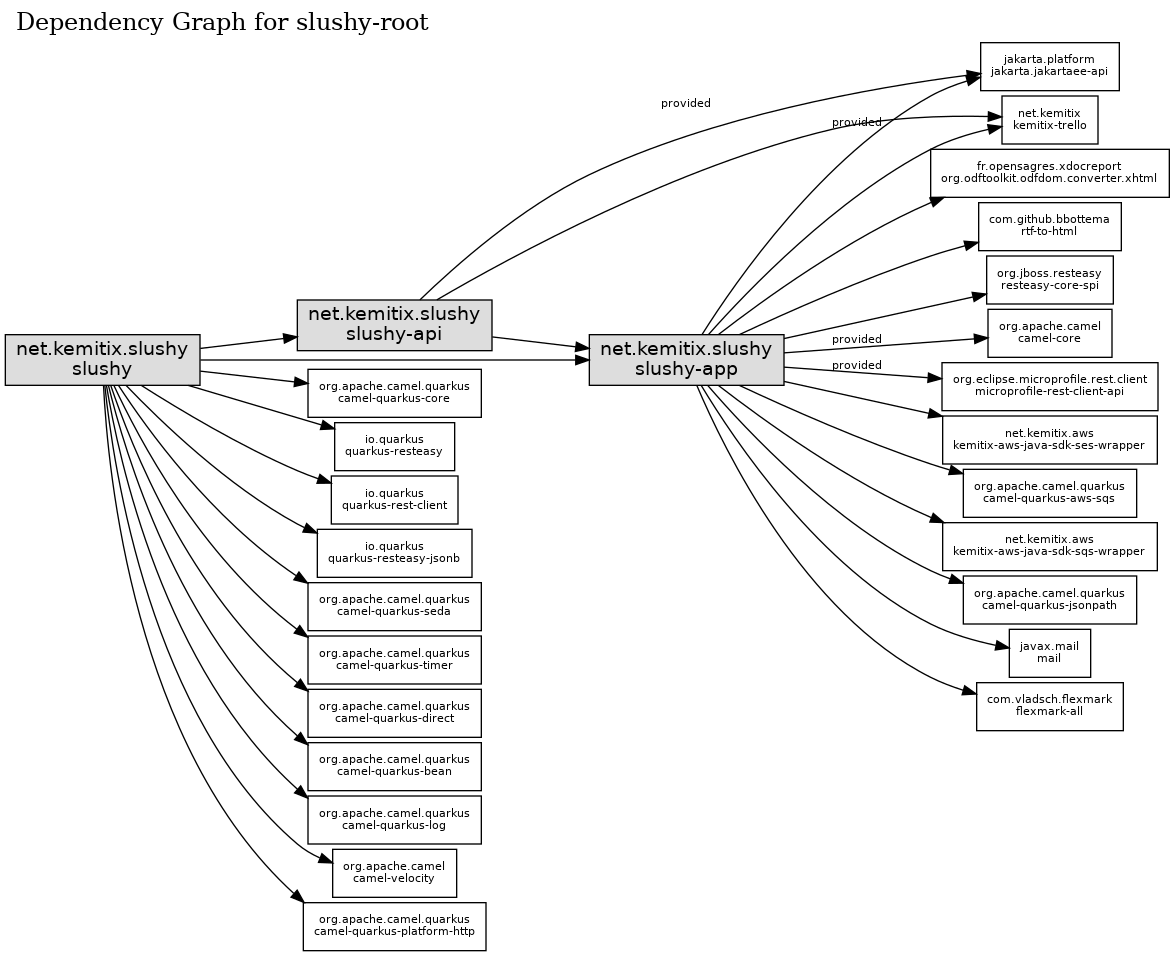
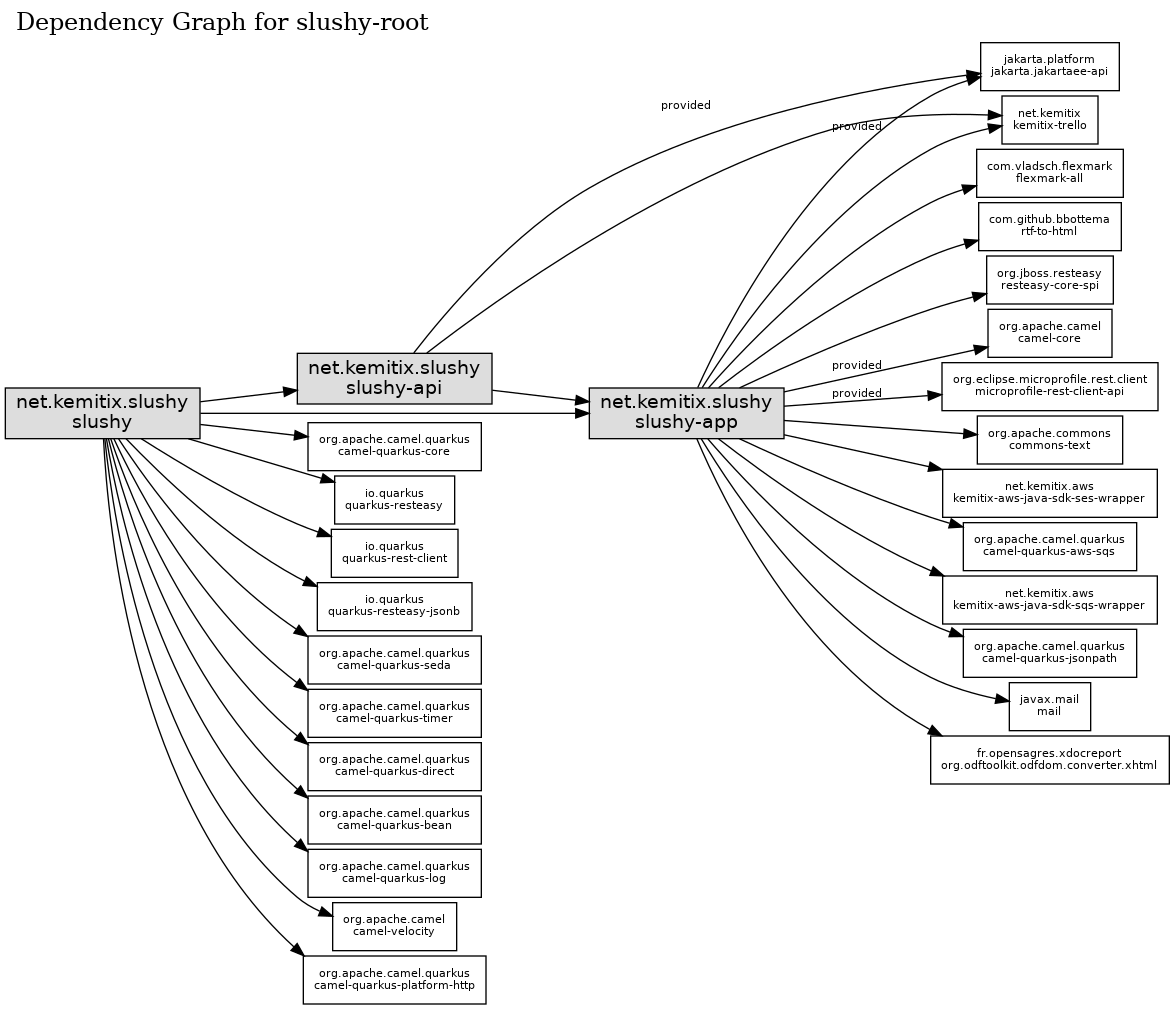
Fix Unicode conversion in RTF to Markdown/HTML converter (#184)
* reader: prevent double trigger of router

Moving a card from Slush to Send To Reader triggered the Reader route twice, causing two threads to be triggered in parallel scanning the Send To Reading list.

* add commons-text dependency

* Use Rtf2Html interface

* Rewrite RtfCleaner to handle unicode better

* Version set to 2.0.1

diff --git a/slushy-app/src/main/java/net/kemitix/slushy/app/fileconversion/RtfToHtmlAttachmentConverter.java b/slushy-app/src/main/java/net/kemitix/slushy/app/fileconversion/RtfToHtmlAttachmentConverter.java
@@ -3,7 +3,6 @@ package net.kemitix.slushy.app.fileconversion;
 import lombok.extern.java.Log;
 import net.kemitix.trello.Attachment;
 import net.kemitix.trello.LocalAttachment;
-import org.bbottema.rtftohtml.RTF2HTMLConverter;
 
 import javax.enterprise.context.ApplicationScoped;
 import javax.inject.Inject;
@@ -19,9 +18,17 @@ import java.util.stream.Stream;
 public class RtfToHtmlAttachmentConverter
         implements AttachmentConverter {
 
-    @Inject RTF2HTMLConverter converter;
-    @Inject HtmlCleaner htmlCleaner;
-    @Inject RtfCleaner rtfCleaner;
+    private final Rtf2Html converter;
+    private final RtfCleaner rtfCleaner;
+
+    @Inject
+    public RtfToHtmlAttachmentConverter(
+            Rtf2Html converter,
+            RtfCleaner rtfCleaner
+    ) {
+        this.converter = converter;
+        this.rtfCleaner = rtfCleaner;
+    }
 
     @Override
     public boolean canHandle(Attachment attachment) {
@@ -38,9 +45,7 @@ public class RtfToHtmlAttachmentConverter
     ) {
         try {
             String rtfString = Files.readString(sourceFile.toPath());
-            String html = converter.rtf2html(
-                    rtfCleaner.clean(
-                            htmlCleaner.clean(rtfString)));
+            String html = doConvert(rtfString);
             Files.writeString(targetFile.toPath(), html);
             if (targetFile.exists()) {
                 return Optional.of(
@@ -54,6 +59,9 @@ public class RtfToHtmlAttachmentConverter
         }
     }
 
+    public String doConvert(String rtfString) {
+        return converter.convert(rtfCleaner.clean(rtfString));
+    }
 
     @Override
     public Stream<String> canConvertFrom() {

diff --git a/slushy-app/src/main/java/net/kemitix/slushy/app/fileconversion/RtfCleaner.java b/slushy-app/src/main/java/net/kemitix/slushy/app/fileconversion/RtfCleaner.java
@@ -1,22 +1,22 @@
 package net.kemitix.slushy.app.fileconversion;
 
+import org.apache.commons.text.StringEscapeUtils;
+
 import javax.enterprise.context.ApplicationScoped;
-import java.util.Arrays;
-import java.util.concurrent.atomic.AtomicReference;
+import java.util.regex.Pattern;
 
 @ApplicationScoped
 public class RtfCleaner {
 
-    public String clean(String rtfString) {
-        var text = new AtomicReference<>(rtfString);
-        Arrays.stream(new String[][]{
-                {"[{][\\\\]u8220[\\\\]'93[}]", "&ldquo;"},
-                {"[{][\\\\]u8221[\\\\]'94[}]", "&rdquo;"},
-                {"[{][\\\\]u8217[\\\\]'92[}]", "&apos;"},
-        }).forEach(e ->
-                text.updateAndGet(x ->
-                        x.replaceAll(e[0], e[1])));
-        return text.get();
+    private static final Pattern pattern = Pattern.compile("\\\\u(\\d{4})\\\\'\\d{2}");
+
+    public String clean(String rtfText) {
+        return pattern.matcher(rtfText)
+                .replaceAll(match -> {
+                    int codePoint = Integer.parseInt(match.group(1));
+                    String unicodeString = new String(Character.toChars(codePoint));
+                    return StringEscapeUtils.escapeHtml4(unicodeString);
+                });
     }
 
 }

diff --git a/slushy-app/src/test/java/net/kemitix/slushy/app/fileconversion/RtfCleanerTest.java b/slushy-app/src/test/java/net/kemitix/slushy/app/fileconversion/RtfCleanerTest.java
@@ -1,0 +1,21 @@
+package net.kemitix.slushy.app.fileconversion;
+
+import org.assertj.core.api.WithAssertions;
+import org.junit.jupiter.api.DisplayName;
+import org.junit.jupiter.api.Test;
+
+public class RtfCleanerTest
+    implements WithAssertions {
+
+    @Test
+    @DisplayName("Can convert RTF Unicode into an HTML entity")
+    public void canConvertRtfUnicodeToHtmlEntity() {
+        //given
+        var rtf = "\\u8217\\'92";// &apos; or &rsquo;
+        RtfCleaner rtfCleaner = new RtfCleaner();
+        //when
+        String out = rtfCleaner.clean(rtf);
+        //then
+        assertThat(out).isEqualTo("&rsquo;");
+    }
+}

diff --git a/slushy-app/src/main/java/net/kemitix/slushy/app/reader/ReaderRoute.java b/slushy-app/src/main/java/net/kemitix/slushy/app/reader/ReaderRoute.java
@@ -10,6 +10,7 @@ import javax.inject.Inject;
 public class ReaderRoute
         extends RouteBuilder {
 
+    public static final int TWENTY_SECONDS = 20000;
     @Inject LoadList loadList;
     @Inject ReaderConfig readerConfig;
 
@@ -17,6 +18,9 @@ public class ReaderRoute
     public void configure() throws Exception {
         from("direct:Slushy.Reader")
                 .routeId("Slushy.Reader")
+
+                .throttle(1).timePeriodMillis(TWENTY_SECONDS)
+
                 .setHeader("ListName").constant(readerConfig.getSourceList())
                 .setBody().method(loadList)
                 .split(body())

diff --git a/slushy-app/src/main/java/net/kemitix/slushy/app/fileconversion/RTFConverterProducer.java b/slushy-app/src/main/java/net/kemitix/slushy/app/fileconversion/RTFConverterProducer.java
@@ -11,8 +11,9 @@ public class RTFConverterProducer {
 
     @Produces
     @ApplicationScoped
-    RTF2HTMLConverter converter() {
-        return RTF2HTMLConverterJEditorPane.INSTANCE;
+    Rtf2Html converter() {
+        RTF2HTMLConverter converter = RTF2HTMLConverterJEditorPane.INSTANCE;
+        return converter::rtf2html;
     }
 
 }

diff --git a/slushy-app/src/main/java/net/kemitix/slushy/app/fileconversion/Rtf2Html.java b/slushy-app/src/main/java/net/kemitix/slushy/app/fileconversion/Rtf2Html.java
@@ -1,0 +1,5 @@
+package net.kemitix.slushy.app.fileconversion;
+
+public interface Rtf2Html {
+    String convert(String text);
+}
